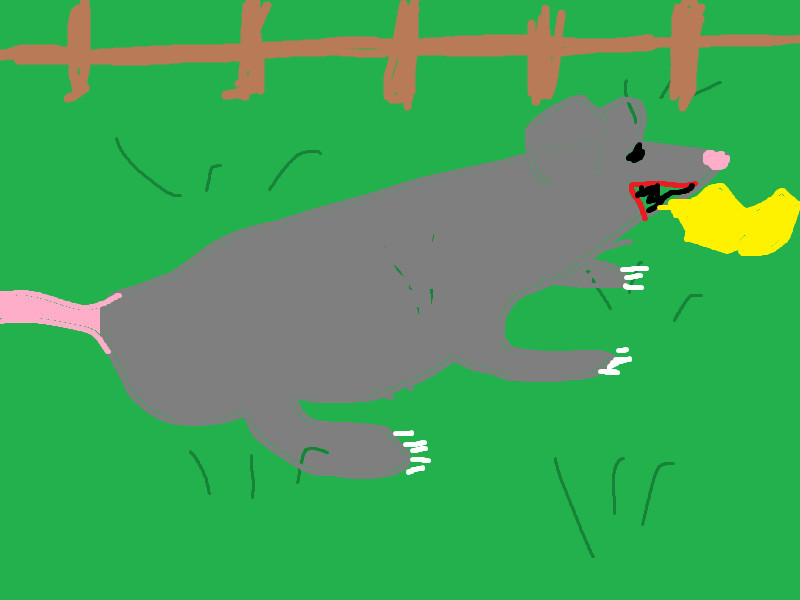
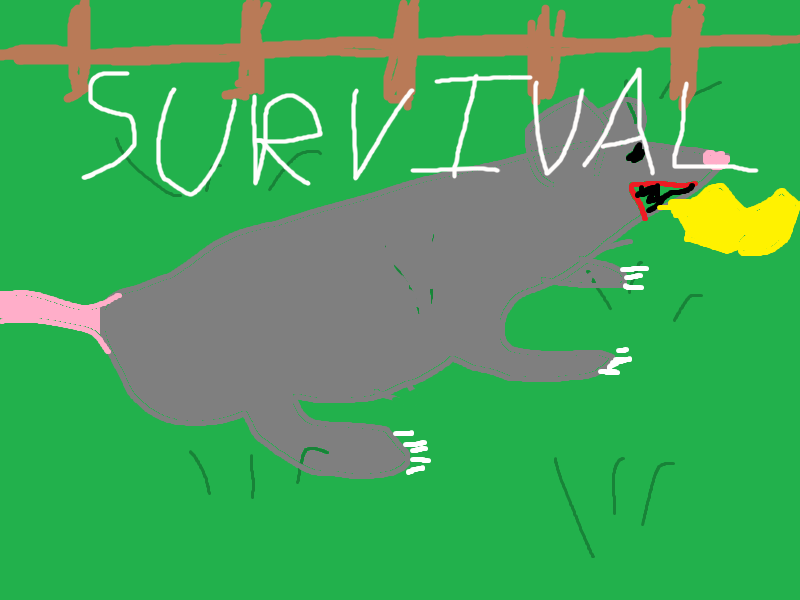
game-3 update

diff --git a/game-3/index.html b/game-3/index.html
@@ -31,7 +31,7 @@ body
 <body>
 <div id="game"></div>
 <div id="readme">
-<h2>Your game title</h2>
+<h2>SURVIVAL</h2>
 
 <ul>
 <li><strong>Originality:</strong>
